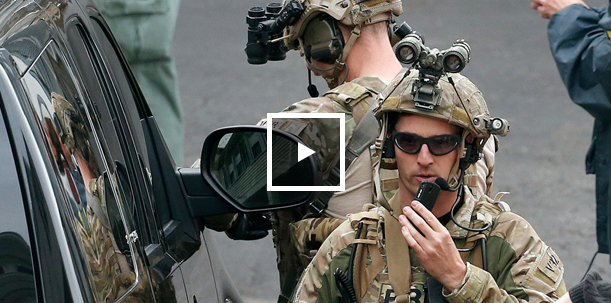
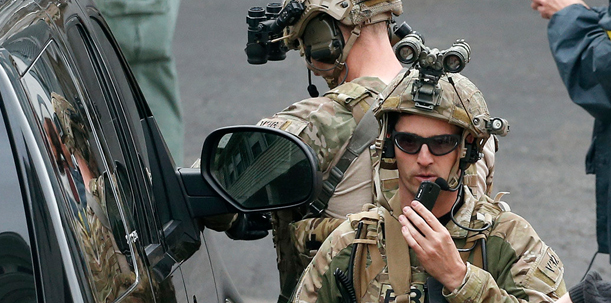
adds design for enroll page

Changed region(s): [[0.4354, 0.3564, 0.5908, 0.6535]]

diff --git a/app/assets/stylesheets/course.css.scss b/app/assets/stylesheets/course.css.scss
@@ -11,7 +11,6 @@ body { background-color: #f0f0ef; }
   height:365px;
   background:#000 url('hero.png') no-repeat center;
   background-size:cover;
-  margin-bottom:30px;
 
   h2{
     color:#fff;
@@ -80,6 +79,25 @@ body { background-color: #f0f0ef; }
       font-family: 'Merriweather', serif;
       font-size:13px;
       line-height:1.8;
+    }
+
+  }
+
+  #video{
+    position: relative;
+
+    .play{
+      width:78px;
+      height:78px;
+      display:block;
+      background:url('play.png') no-repeat center;
+      position: absolute;
+      left:50%;
+      top:50%;
+      margin-left:-39px;
+      margin-top:-39px;
+      opacity: .8;
+      &:hover{opacity:1;}
     }
 
   }
@@ -176,6 +194,103 @@ body { background-color: #f0f0ef; }
 
   }
 
+  #enroll{
+    background:#F2F2F1;
+    padding:20px;
+
+    h1{
+      margin:0;
+      margin-bottom:30px;
+      font-weight:400;
+    }
+
+    section{
+      margin-bottom:40px;
+      position:relative;
+
+      .section_header{
+        width:100%;
+        text-transform: uppercase;
+        font-size:15px;
+        font-weight:600;
+        margin-bottom:20px;
+        background:url('divider_line.png') repeat-x left center;
+          span{
+            background:#F2F2F1;
+            padding-right:10px;
+        }
+      }
+
+      label{
+        text-transform: uppercase;
+        font-size:14px;
+        font-weight:400;
+        display:block;
+        letter-spacing: 1px;
+        padding-bottom:10px;
+      }
+
+      #already_member{
+        color:#999;
+        float:right;
+        text-decoration: none;
+      }
+
+      #cards{
+        position:absolute;
+        right:0px;
+        top:162px;
+      }
+
+      #credit_card_number{
+        float:left;
+        margin-right:20px;
+        width:380px;
+        input{
+          width:350px;
+        }
+      }
+
+      #security_number{
+        float:left;
+        width:170px;
+        position: relative;
+        img{
+          position:absolute;
+          right:10px;
+          top:43px;
+        }
+        input{
+          width:140px;
+        }
+      }
+
+      .button{
+        margin-top:30px;
+      }
+
+      input[type="email"],input[type="text"]{
+        border:none;
+        box-shadow:0 1px 3px #e5e5e5;
+        padding:15px;
+        border-radius:3px;
+        margin-bottom:20px;
+      }
+
+      #email_field{
+        width:540px;
+      }
+
+    }
+
+    .note{
+      clear:both;
+      padding-top:20px;
+      display: block;
+    }
+
+  }
+
 }
 
 .course_sidebar{
@@ -209,11 +324,12 @@ body { background-color: #f0f0ef; }
       text-align: center;
       padding:15px 0;
       text-decoration: none;
-      margin:10px 0;
+      margin-top:10px;
       text-transform: uppercase;
       font-size:14px;
       font-weight:600;
       letter-spacing: 1px;
+      &:hover{background:$hover;}
     }
 
     .inscriptions{
@@ -222,6 +338,7 @@ body { background-color: #f0f0ef; }
       padding-left:25px;
       background:url('clock.png') no-repeat left 1px;
       line-height:1.2;
+      margin-top:10px;
       span{
         font-weight:800;
         font-size:14px;

diff --git a/app/assets/stylesheets/buttons.css.scss b/app/assets/stylesheets/buttons.css.scss
@@ -1,0 +1,14 @@
+@import 'mixins';
+
+.button{
+    background:$highlight;
+    color:#fff;
+    padding:15px;
+    border:3px solid #fff;
+    text-decoration: none;
+    text-transform: uppercase;
+    font-size:14px;
+    font-weight:600;
+    letter-spacing: 1px;
+    &:hover{background:$hover;}
+}

diff --git a/app/assets/stylesheets/application.css b/app/assets/stylesheets/application.css
@@ -24,6 +24,15 @@ body {
     margin:0 auto;
 }
 
+#main_content{
+    margin-top:30px;
+}
+
+.note{
+    font-style: italic;
+    color:#777;
+}
+
 .container:before,
 .container:after {
   display: table;

diff --git a/app/assets/stylesheets/mixins.css.scss b/app/assets/stylesheets/mixins.css.scss
@@ -1,4 +1,5 @@
 $highlight:#279BA7;
+$hover:#1e848f;
 
 .highlight{
     color:$highlight;
